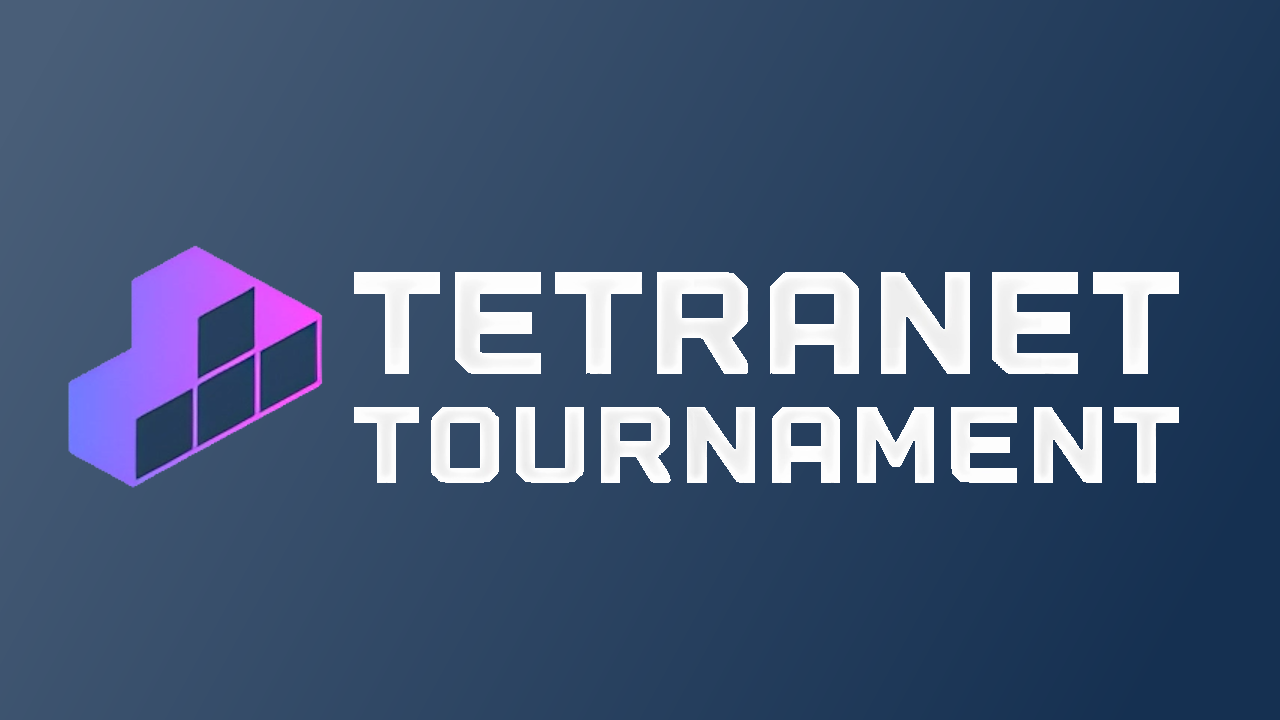
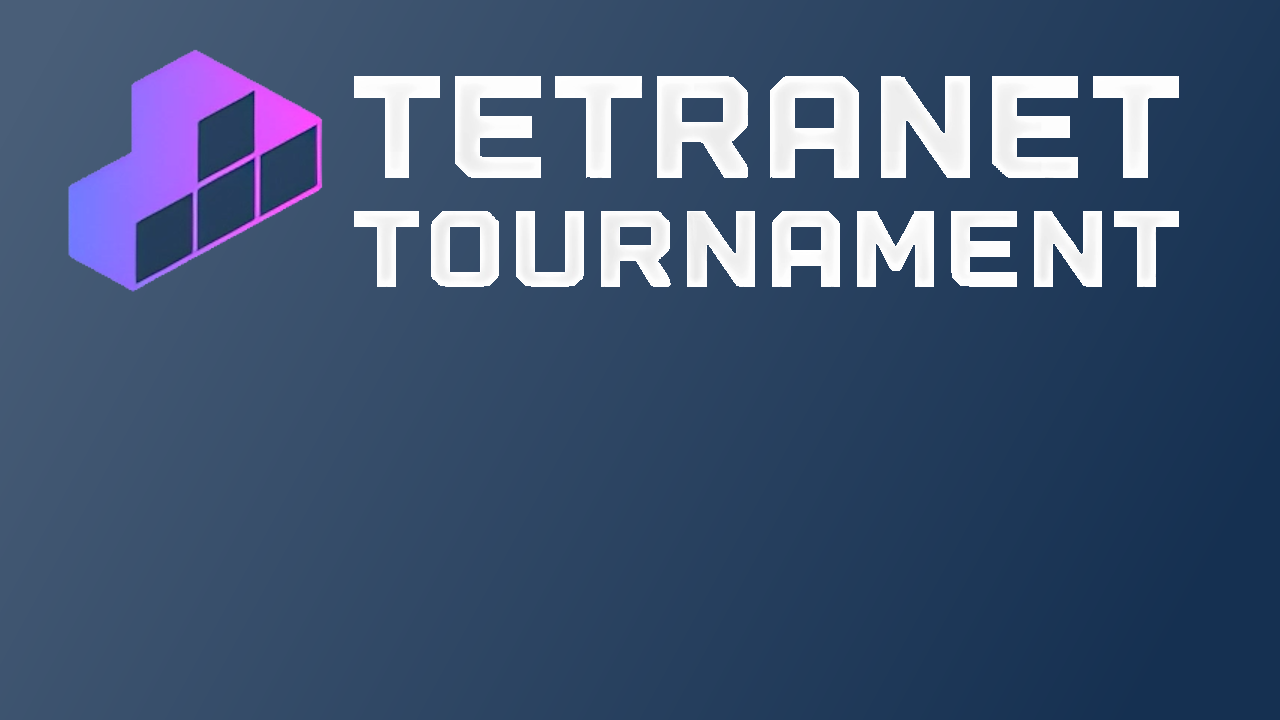
Update title screen. Add menu options.

diff --git a/src/Title.cs b/src/Title.cs
@@ -6,14 +6,41 @@ using Godot;
 public partial class Title : Node2D
 {
 	[Export] private AudioStreamPlayer titleMusic;
+	[Export] private BoxContainer mainMenu;
+	[Export] private Control menuBox;
 
-	// Called every frame. 'delta' is the elapsed time since the previous frame.
 	public override void _Process(double delta)
 	{
-		if (Gamepad.PressedStart() || Gamepad.PressedA())
+		if (!menuBox.Visible && (Gamepad.PressedStart() || Gamepad.PressedA()) || Input.IsMouseButtonPressed(MouseButton.Left))
 		{
-			titleMusic.Stop();
-			GetTree().ChangeSceneToFile("res://scenes/main.tscn");
+			menuBox.Visible = true;
 		}
 	}
+
+	public void SoloGame()
+	{
+		titleMusic.Stop();
+		GetTree().ChangeSceneToFile("res://scenes/main.tscn");
+	}
+
+	public void StartServer()
+	{
+
+	}
+
+	public void ConnectToServer()
+	{
+
+	}
+
+	public void Options()
+	{
+
+	}
+
+	public void SetupControls()
+	{
+
+	}
+
 }
